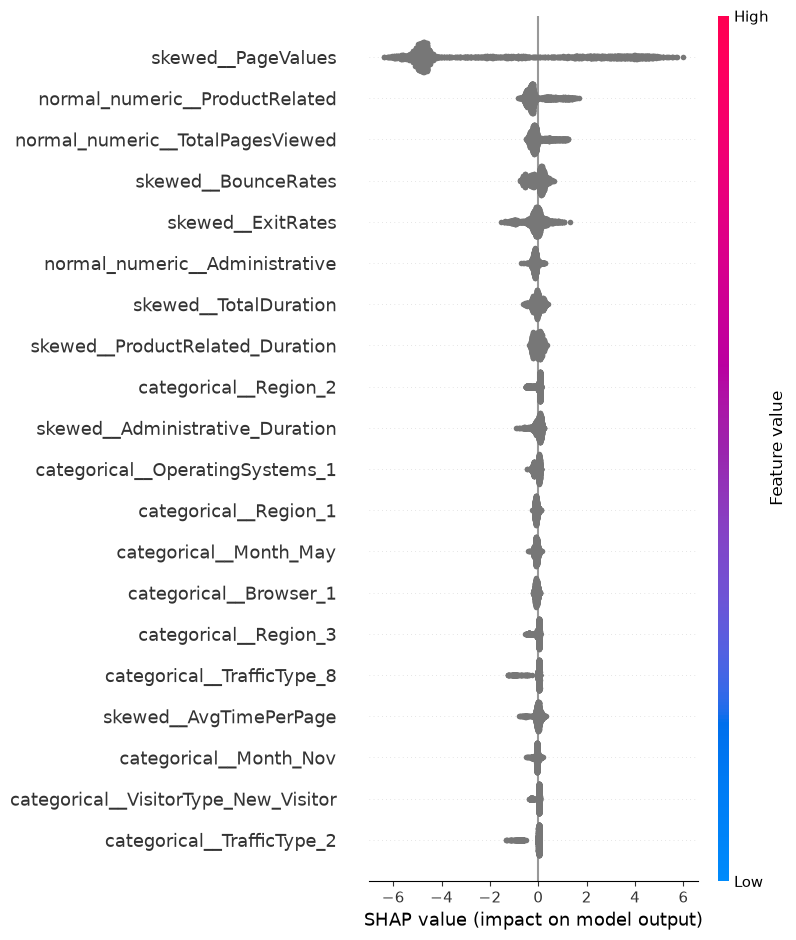
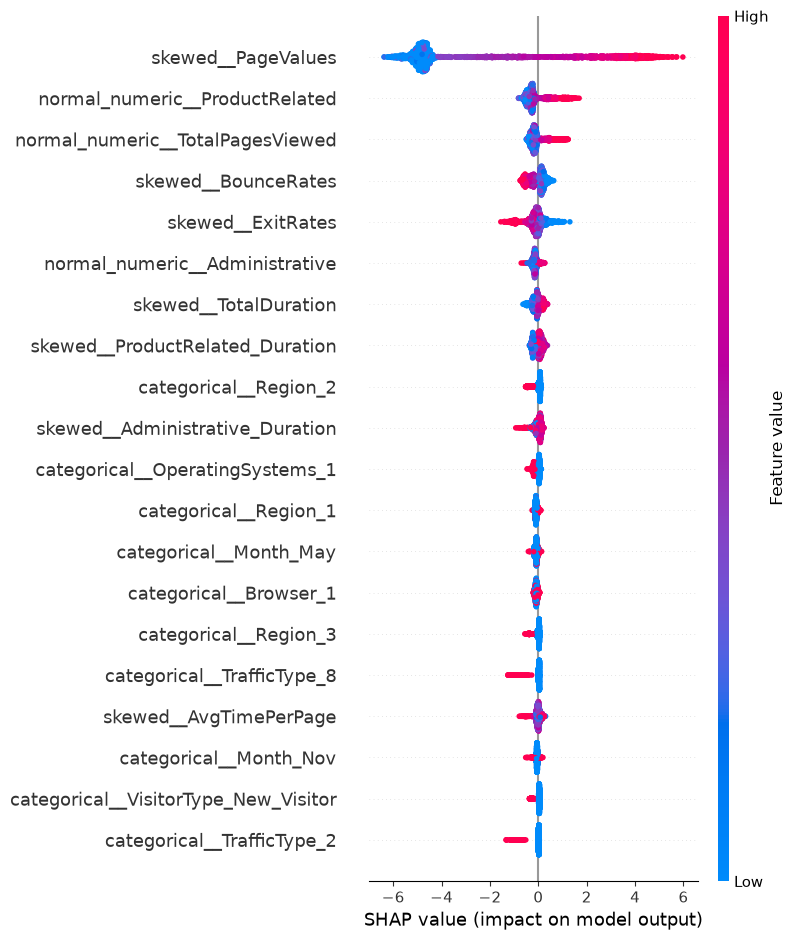
Fix SHAP summary plot colors by passing dense feature matrix

Changed region(s): [[0.4824, 0.0309, 0.8442, 0.9255]]

diff --git a/src/explain/shap_analysis.py b/src/explain/shap_analysis.py
@@ -52,6 +52,10 @@ def get_global_importance(shap_values, feature_names) -> pd.DataFrame:
 
 
 def plot_summary(shap_values, X_transformed, feature_names, save_path=None):
+    # SHAP needs a dense array to color dots by feature value
+    if hasattr(X_transformed, "toarray"):
+        X_transformed = X_transformed.toarray()
+
     plt.figure()
     shap.summary_plot(
         shap_values, X_transformed, feature_names=feature_names, show=False
